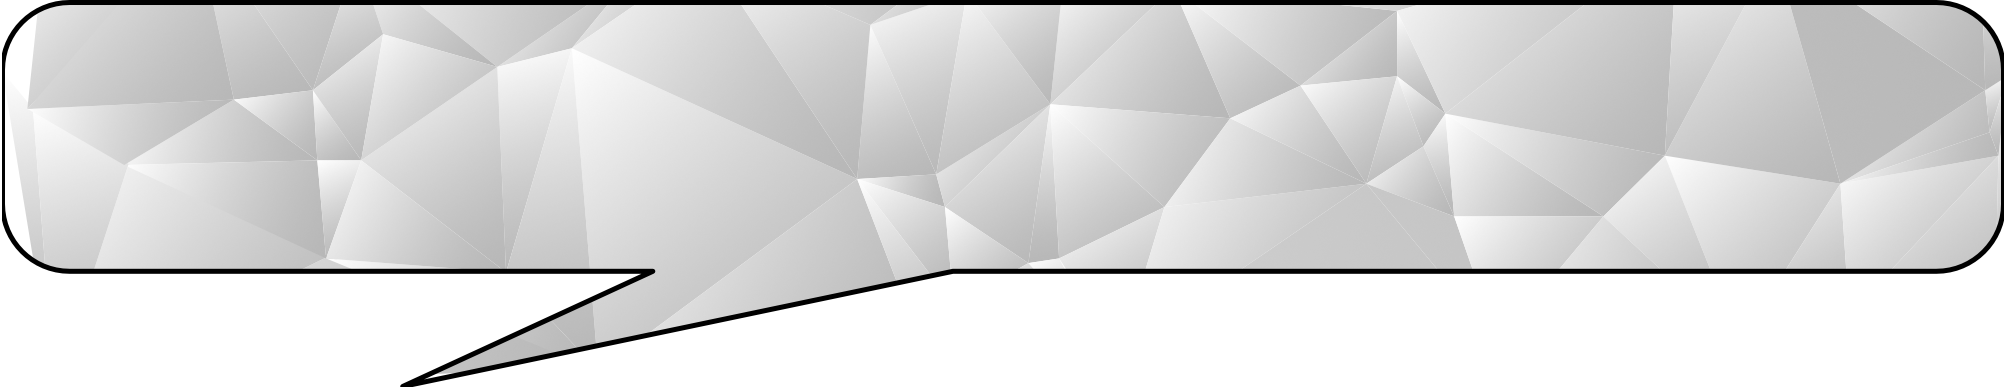
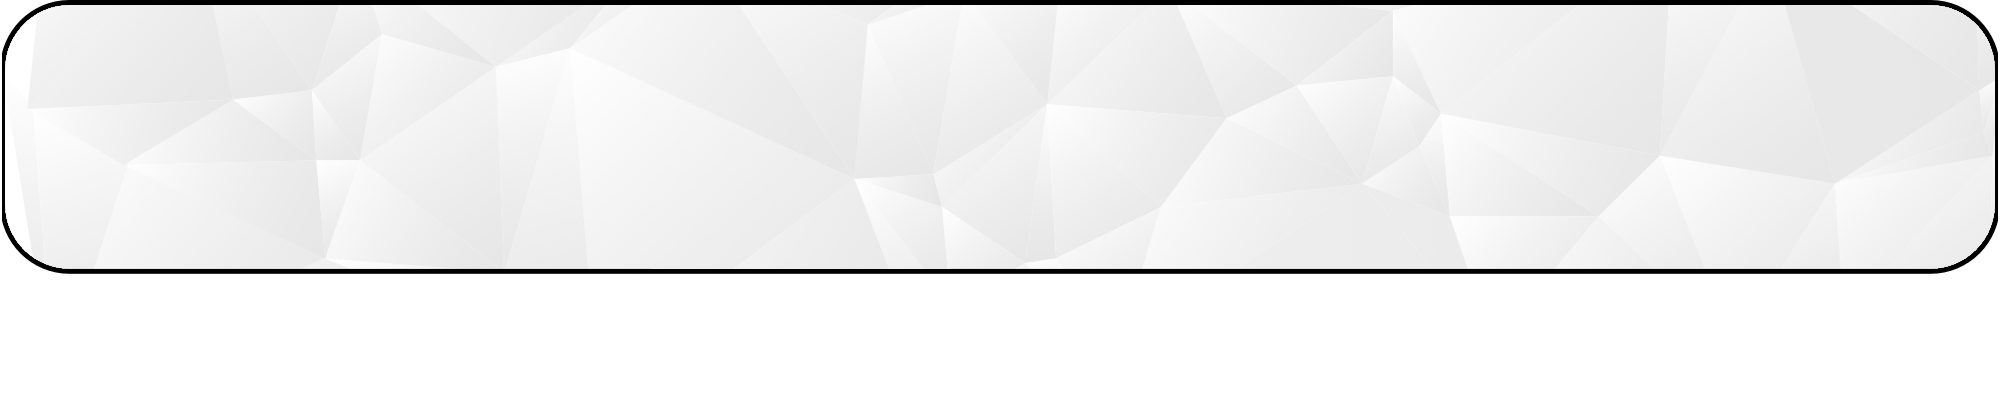
Fixed the styling on the text box.

diff --git a/ProjectFiles/styles/index.css b/ProjectFiles/styles/index.css
@@ -80,13 +80,21 @@ html, body {
 }
 
 #flower-message {
+	display: flex;
 	position: absolute;
-	left: 55px;
-	width: calc(100% - 110px);
+	top: -30px;
+	left: calc(50% - 225px);
+	width: 420px;
+	height: 57px;
+	padding: 3px 20px;
+	padding-bottom: 32px;
+	align-items: center;
+	justify-content: center;
 	text-align: center;
-	margin: 0;
 	font-size: 20px;
 	font-weight: normal;
+	background-image: url('../art/images/textbox.png');
+    background-size: 100% 100%;
 }
 
 .button.down {

diff --git a/ProjectFiles/index.html b/ProjectFiles/index.html
@@ -11,7 +11,7 @@
 			<div id='top-bar'>
 				<div id='revoke-btn' class='button' onclick='Camera.zoomOut();'>
 				</div>
-				<h1 id='flower-message'>  </h1>
+				<h1 id='flower-message'></h1>
 				<div id='sandwich-container'>
 					<div id='settings-btn' class='button' onclick='UI.toggleMenu();'>
 					</div>
